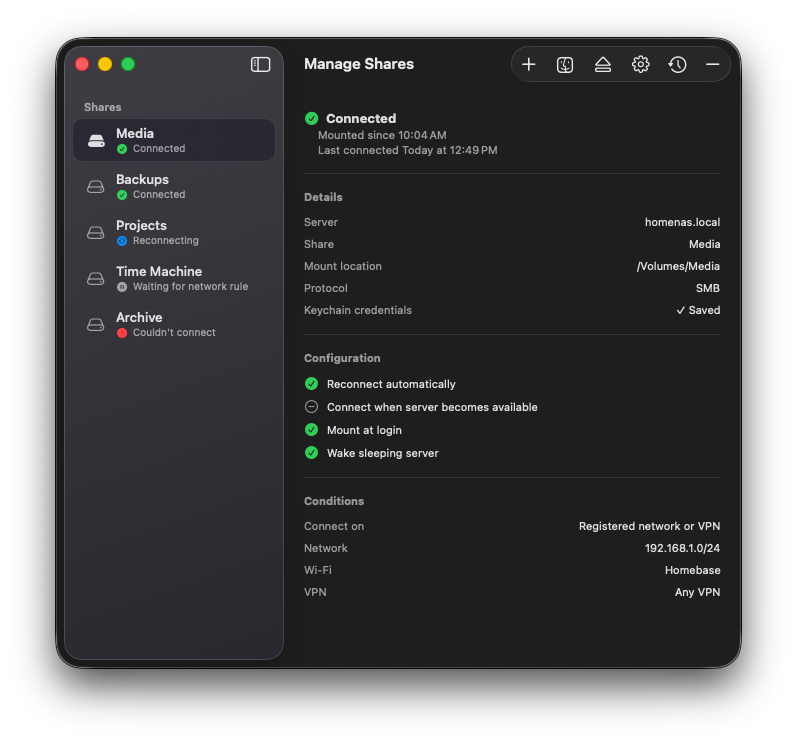
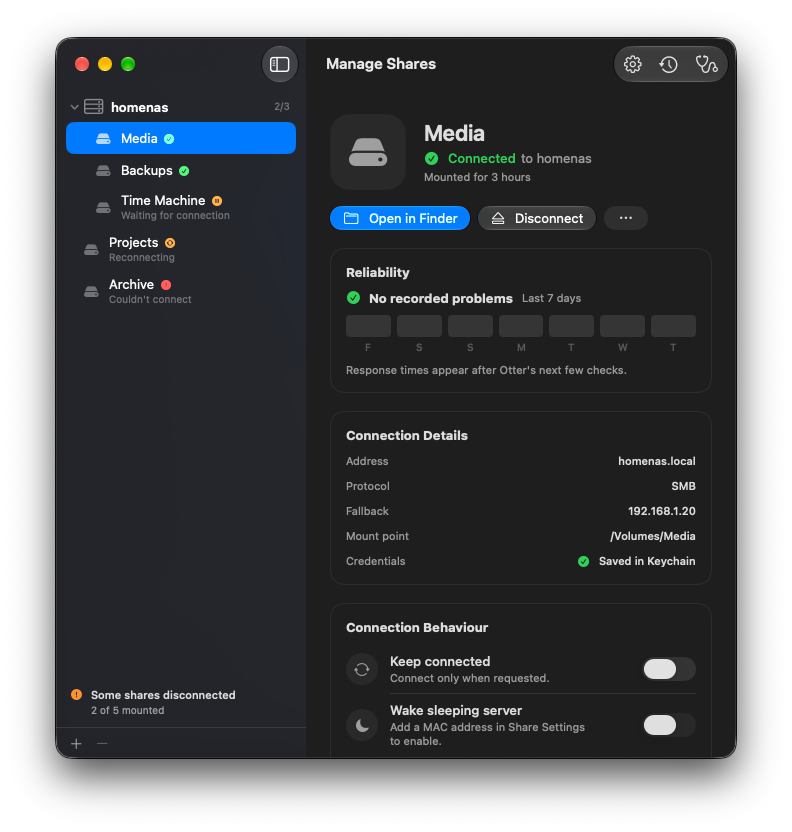
Website: refresh app screenshots for the redesigned Manage Shares; debug-only appearance override for screenshots

Changed region(s): [[0.0606, 0.248, 0.9394, 0.9299], [0.0606, 0.031, 0.9394, 0.465], [0.7879, 0.279, 0.9091, 0.434]]

diff --git a/website/index.html b/website/index.html
@@ -61,8 +61,8 @@
 
       <section class="showcase wrap" aria-label="Otter Manage Shares screenshots">
         <div class="showcase-stage">
-          <img class="app-shot app-shot-light" src="assets/otter-app-light.png" width="797" height="742" alt="Otter Manage Shares window in light mode showing share status and network conditions">
-          <img class="app-shot app-shot-dark" src="assets/otter-app-dark.png" width="797" height="742" alt="Otter Manage Shares window in dark mode showing share status and network conditions">
+          <img class="app-shot app-shot-light" src="assets/otter-app-light.png" width="792" height="832" alt="Otter Manage Shares window in light mode showing share status and network conditions">
+          <img class="app-shot app-shot-dark" src="assets/otter-app-dark.png" width="792" height="832" alt="Otter Manage Shares window in dark mode showing share status and network conditions">
         </div>
       </section>
 

diff --git a/Otter/App/OtterApp.swift b/Otter/App/OtterApp.swift
@@ -211,6 +211,16 @@ class AppDelegate: NSObject, NSApplicationDelegate {
         // carries, so hold the process open from code as well: a share monitor
         // that the system is free to quit while it sits idle is no monitor.
         ProcessInfo.processInfo.disableAutomaticTermination("Otter monitors network shares in the background")
+
+#if DEBUG
+        // For product screenshots: `-OtterAppearance dark` (or `light`) forces
+        // the app's appearance without touching the system setting.
+        switch UserDefaults.standard.string(forKey: "OtterAppearance") {
+        case "dark": NSApp.appearance = NSAppearance(named: .darkAqua)
+        case "light": NSApp.appearance = NSAppearance(named: .aqua)
+        default: break
+        }
+#endif
     }
 
     func applicationShouldHandleReopen(_ sender: NSApplication, hasVisibleWindows flag: Bool) -> Bool {
